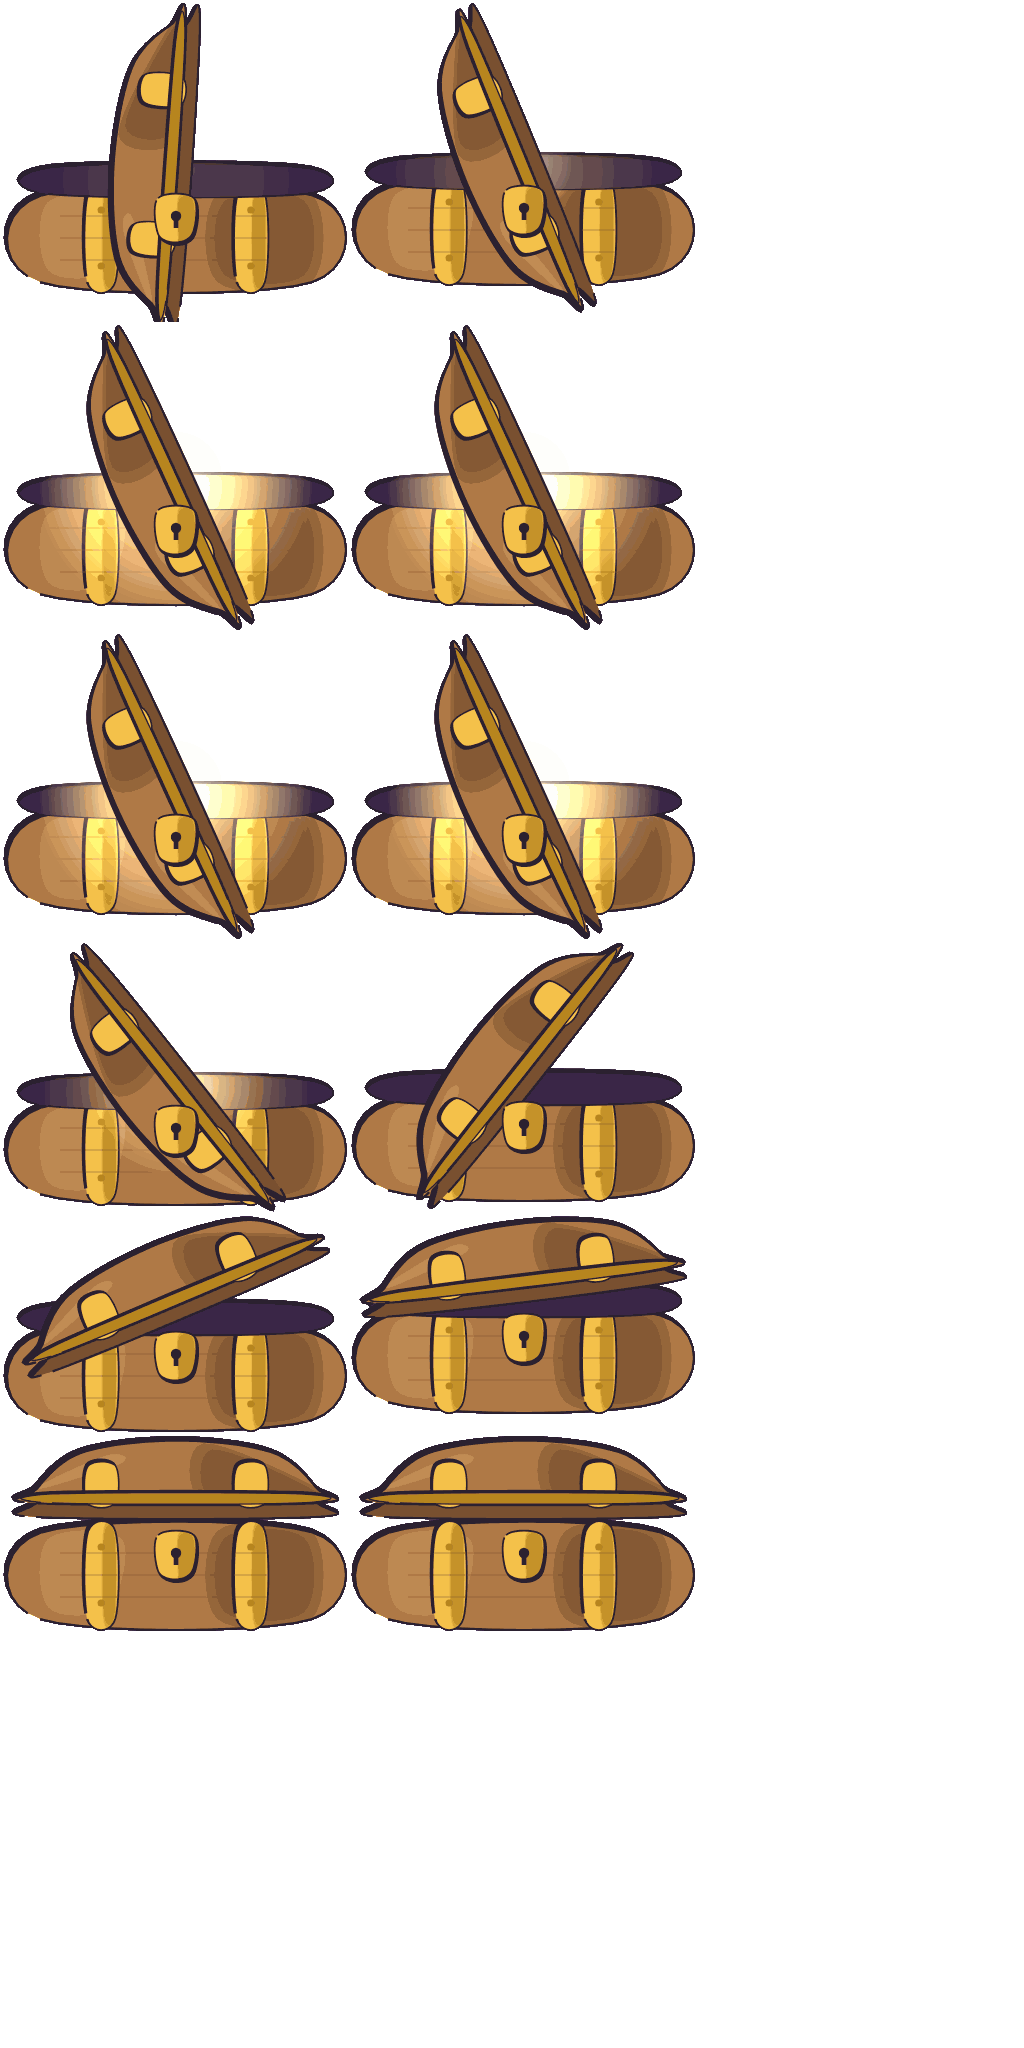
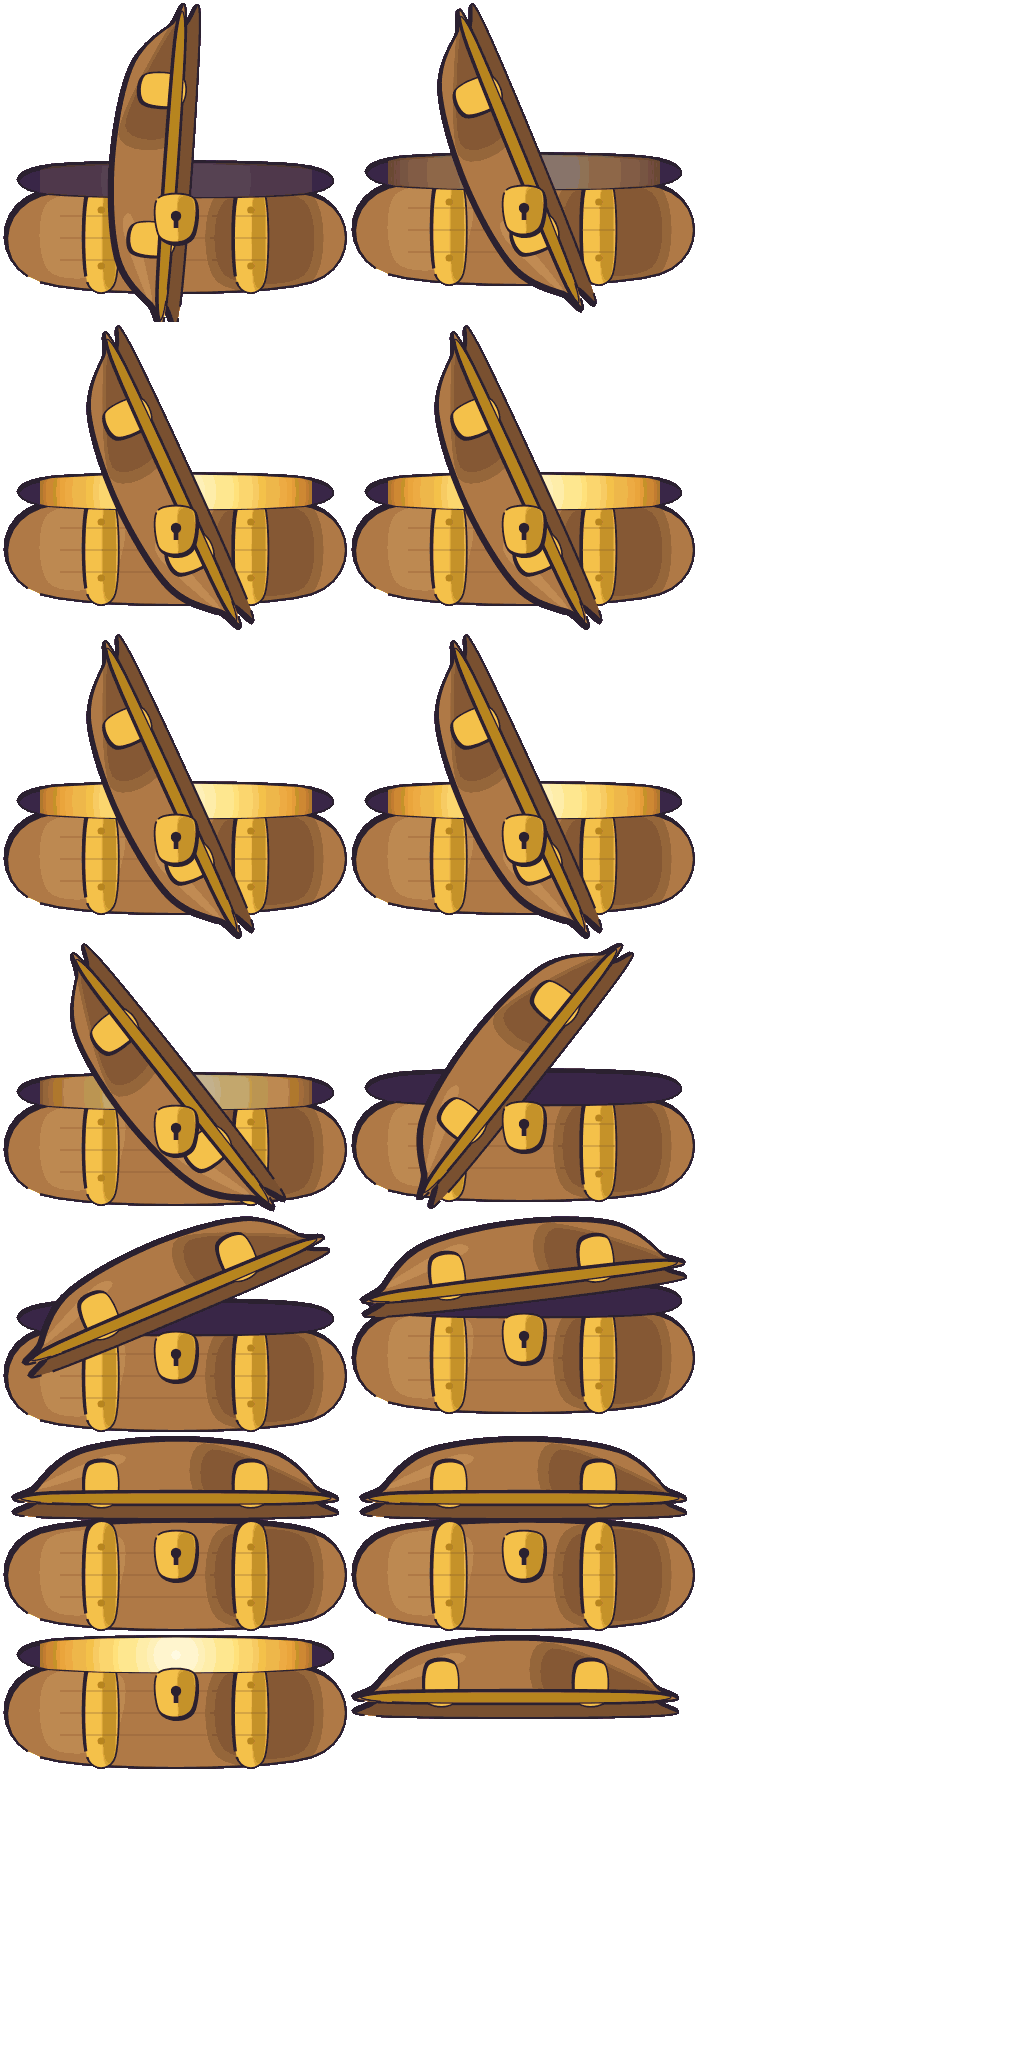
Mitch, AD's church and the chest's real body and lid; cloud past the map's edge and over every closed area
The church stands by its hub with its rose-rimmed plate. The pop now uses chest/body with its light showing and chest/lid
spinning about its own centre, in place of the frame cut in two. Dragging the map showed a void past the areas and grey
spots through the closed ones: the kit's cloud now lies under the whole board and over every closed area, kit or not.

diff --git a/Game Developer/client/src/scenes/RevealScene.ts b/Game Developer/client/src/scenes/RevealScene.ts
@@ -24,8 +24,8 @@ const CENTRE = DESIGN_WIDTH / 2;
 export const REVEAL_LAYOUT = { titleY: 150, cardY: 330, chestY: 600, mouthY: 530, hintY: 696 } as const;
 /** The glow builds this long before the lid moves; a tap cuts it short. */
 const BUILD_MS = 1500;
-/** Where the closed chest's frame divides into lid and body, in file pixels from its top. */
-const LID_CUT = 92;
+/** Where the lid's centre starts against the chest's pivot, in design pixels (Mitch, AD). */
+const LID_FROM = { x: -0.5, y: -70.5 } as const;
 /** The card rests this long before the next card or the board, unless tapped. */
 const REST_MS = 2200;
 const QUICK_REST_MS = 1500;
@@ -111,8 +111,8 @@ export class RevealScene extends Phaser.Scene {
 
     this.glow = this.add.image(CENTRE, mouthY, LOOT_KEYS.glow).setTint(this.tint).setBlendMode(Phaser.BlendModes.ADD).setAlpha(0).setScale(LOOT_SCALE * 0.3).setDepth(1);
     this.chest = this.add.sprite(CENTRE, chestY, LOOT_KEYS.chest, 'chest/closed/0001').setScale(LOOT_SCALE).setDepth(3);
-    // The lid: the same frame's top part, hidden until it blows off.
-    this.lid = this.add.sprite(CENTRE, chestY, LOOT_KEYS.chest, 'chest/closed/0001').setScale(LOOT_SCALE).setDepth(4).setVisible(false);
+    // The lid, hidden until it blows off; it spins about its own centre.
+    this.lid = this.add.sprite(CENTRE + LID_FROM.x, chestY + LID_FROM.y, LOOT_KEYS.chest, 'chest/lid').setScale(LOOT_SCALE).setDepth(4).setVisible(false);
     this.shaker = null;
     this.hint = this.add.text(CENTRE, hintY, 'Tap to go on', { fontFamily: FONT, fontSize: '13px', color: COLORS.dim }).setOrigin(0.5).setAlpha(0).setDepth(5);
 
@@ -168,17 +168,16 @@ export class RevealScene extends Phaser.Scene {
     this.shaker = null;
     const { chestY } = REVEAL_LAYOUT;
     this.chest.setAngle(0).setPosition(CENTRE, chestY).clearTint();
-    // The pop: the frame divides at the lid's seam; the body stays, the lid flies.
-    const { width, height } = this.chest.frame;
-    this.chest.setCrop(0, LID_CUT, width, height - LID_CUT);
-    this.lid.setCrop(0, 0, width, LID_CUT).setVisible(!this.quick);
+    // The pop: the body stays with its light showing, the lid flies.
+    this.chest.setFrame('chest/body');
+    this.lid.setVisible(!this.quick);
     this.burst();
     if (this.quick) return;
     this.chest.setScale(LOOT_SCALE * 1.22, LOOT_SCALE * 0.82);
     this.tweens.add({ targets: this.chest, scaleX: LOOT_SCALE, scaleY: LOOT_SCALE, duration: 300, ease: 'Back.easeOut' });
     const flash = this.add.circle(CENTRE, REVEAL_LAYOUT.mouthY, 40, 0xffffff, 0.9).setDepth(5).setBlendMode(Phaser.BlendModes.ADD);
     this.tweens.add({ targets: flash, scale: 5, alpha: 0, duration: 260, ease: 'Quad.easeOut', onComplete: () => flash.destroy() });
-    this.tweens.add({ targets: this.lid, y: chestY - 520, angle: 280, duration: 620, ease: 'Quad.easeOut' });
+    this.tweens.add({ targets: this.lid, y: chestY - 520, angle: 540, duration: 680, ease: 'Quad.easeOut' });
     this.tweens.add({ targets: this.lid, alpha: 0, delay: 360, duration: 260, onComplete: () => this.lid.setVisible(false) });
   }
 

diff --git a/Game Developer/client/src/scenes/BoardScene.ts b/Game Developer/client/src/scenes/BoardScene.ts
@@ -141,6 +141,7 @@ export class BoardScene extends Phaser.Scene {
    * under the button (mine, 2026-10-31), not even when the closing frame runs long drawing a grown area. */
   private overlayClosedAt = -Infinity;
   private overlayClosedFrame = -Infinity;
+  private outside: Phaser.GameObjects.TileSprite | null = null;
   private links!: Phaser.GameObjects.Graphics;
   private border!: Phaser.GameObjects.Graphics;
   private token!: Phaser.GameObjects.Container;
@@ -613,6 +614,11 @@ export class BoardScene extends Phaser.Scene {
       if (kit) this.log.note(`props: ${drawKitProps(this, kit, area)} on ${area.name}`);
     }
     for (const area of fresh) this.drawCover(area);
+    // Past the areas' edges there is cloud, not a void (the map can be dragged there).
+    if (this.textures.exists('board_cover')) {
+      this.outside ??= this.add.tileSprite(0, 0, board.width, board.height, 'board_cover').setOrigin(0, 0).setTileScale(0.5).setDepth(-1).setTint(0x8a8fa8);
+      this.outside.setSize(board.width, board.height);
+    }
     this.border.clear();
     this.border.lineStyle(6, COLORS.border, 1);
     this.border.strokeRect(3, 3, board.width - 6, board.height - 6);
@@ -758,7 +764,8 @@ export class BoardScene extends Phaser.Scene {
 
   /** A dark cover over an area, shown while it is not yet open: you can see there is more, not what. */
   private drawCover(area: Area): void {
-    const kit = kitFor(this, area.theme);
+    // The meadow's cloud over any closed area, kit or not: nothing shows until it opens.
+    const kit = kitFor(this, area.theme) ?? kitFor(this, 'meadow');
     if (kit) {
       this.covers.set(area.id, drawKitCover(this, kit, area));
       return;

diff --git a/Game Developer/client/src/boardkit.ts b/Game Developer/client/src/boardkit.ts
@@ -62,7 +62,7 @@ const KITS: Record<string, Kit> = {
   },
 };
 
-const PLATES: Record<SpaceKind, string> = { normal: 'spot_wild', town: 'spot_town', shop: 'spot_shop', chest: 'spot_chest', potion: 'spot_spring', spell: 'spot_shrine', church: 'spot_shrine', boss: 'spot_gate' };
+const PLATES: Record<SpaceKind, string> = { normal: 'spot_wild', town: 'spot_town', shop: 'spot_shop', chest: 'spot_chest', potion: 'spot_spring', spell: 'spot_shrine', church: 'spot_church', boss: 'spot_gate' };
 
 export function preloadBoardKits(scene: Phaser.Scene): void {
   const k = KITS.meadow!;

diff --git a/Game Developer/assets/board_meadows/NOTES.md b/Game Developer/assets/board_meadows/NOTES.md
@@ -4,7 +4,7 @@ Mitch, AD, 2026-11-01. Copy the whole folder. Sizes are design pixels (world pix
 them at 0.5. About 280 KB in all, against the area kit's 2.5 MB for board and fight together. Decoded: `board_props` 8 MB
 (1024 by 2048), `board_ground` 4 MB, `cover` 1 MB.
 
-`puddlewick.jpg`, `crossroads.jpg` and `whole.jpg` are this kit laid on your real graph by the studio's tool, from these same
+`puddlewick.jpg`, `crossroads.jpg`, `church.jpg` and `whole.jpg` are this kit laid on your real graph by the studio's tool, from these same
 atlases. They are not screenshots of the game.
 
 ## How to lay it
@@ -13,10 +13,11 @@ atlases. They are not screenshots of the game.
   colour at their edges, so they mix without showing squares. Tiles are 1 px extruded.
 - **Roads:** stroke the curve in code with three lines: 30 px `#b4935a`, 25 px `#d9bb7e`, 10 px `#ecd49c` at 0.8 alpha, round
   joins. Or repeat `road_straight` along the curve, turned to it, with `road_end` at each spot and `road_junction` at each hub.
-- **Spots:** `spot_<kind>`, the pivot at the centre, where the token stands: wild 56 wide, town and shop 90, chest, spring and
-  shrine 56, the gate 120. Clean plates with the kind in the rim's colour and nothing on them (Robin, 2026-11-01).
+- **Spots:** `spot_<kind>`, the pivot at the centre, where the token stands: wild 56 wide, town and shop 90, chest, spring,
+  shrine and church 56, the gate 120. Clean plates with the kind in the rim's colour and nothing on them (Robin, 2026-11-01).
 - **Props:** pivot at the foot, shadows baked in. Sort by the foot's y with the token in the same sort. Do not flip them: the
   shadow falls to the lower right on every piece. `clover`, `worn` and `hill` are flat: draw them before the roads.
+- **The church:** `church` stands by `ravine`, Little Clover Church, on a `spot_church` plate with a rose rim (Robin, 2026-11-01: "a church somewhere on each map"). Placement has it, with the long hedge and the stile gone from that hub.
 - **Placement:** `placement_cloverfield.json` lists every prop as `{ name, x, y, hub? }` in world pixels, ready to load. It keeps
   each piece's whole body clear of the roads and spots and inside the area's bounds as the game reports them (x 140 to 1240,
   stopping where Thornwood begins; y 2120 to 3592). The first version assumed the 1400 wide in `docs/art-demands.md` and put
@@ -74,6 +75,7 @@ The cliff and the rims were checked as repeats only.
 | `windmill` | Windmill Hill | 129 by 161 | 70, 149 |
 | `old_mill` | Old Mill | 105 by 64 | 40, 57 |
 | `pond` | Duck Pond | 164 by 106 | 83, 92 |
+| `church` | Little Clover Church, one on each map, beside its church hub | 138 by 169 | 55, 162 |
 | `spring` | Abandoned Orchard, a spring spot | 82 by 61 | 39, 45 |
 | `shrine` | Forest Shrine, a shrine spot | 44 by 55 | 26, 52 |
 | `chest` | Slime Cave, a chest spot (closed; the opening is the loot drop) | 39 by 33 | 19, 25 |
@@ -84,6 +86,7 @@ The cliff and the rims were checked as repeats only.
 | `spot_chest` | a chest spot (t) | 61 by 36 | the centre, where the token stands |
 | `spot_spring` | a spring spot (p) | 61 by 36 | the centre, where the token stands |
 | `spot_shrine` | a shrine spot (s) | 61 by 36 | the centre, where the token stands |
+| `spot_church` | a church hub, heals and clears poison | 61 by 36 | the centre, where the token stands |
 | `spot_gate` | the boss hub | 125 by 71 | the centre, where the token stands |
 
 ## The ground (`board_ground`, 1 px extruded)

diff --git a/Game Developer/docs/state/client.md b/Game Developer/docs/state/client.md
@@ -423,7 +423,7 @@ world boss in the atlas's list.
 - **The map drags again**: `inView` compared canvas pixels with design pixels after the density change, so only the top half of the screen dragged.
 - **The fight has room**: ground at y 490, the strip from y 640, the hero at x 66 with his bars at x 90, the enemy at x 318, King Goo at 0.9. A blow steps its figure toward the other (`step`). Buttons 188 by 54 in rows at y 744, 802, 860; Continue 260 by 70. A ? top right opens the guide.
 - **The drop stays hidden**: the fight says "It drops a chest!", and the name first shows on the reveal's card ("put on" when it went straight on).
-- **The chest** (`RevealScene`): 1.5 s of shine in the rarity colour and growing shake, then the pop: the closed frame divides at `LID_CUT` (the lid a second sprite that flies off spinning, the body squashing back), a white flash, the burst, the card. A tap during the shine pops it at once.
+- **The chest** (`RevealScene`): 1.5 s of shine in the rarity colour and growing shake, then the pop: Mitch, AD's `chest/body` with its light showing, squashing back, and `chest/lid` flying off spinning about its own centre, a white flash, the burst, the card. A tap during the shine pops it at once.
 - **Finds** (`MomentScene.find`, `BoardScene.showFinds`): what a spot gave pops as its icon over rays with a card of words: rest, cure, gold, flask, HP, ability, key, errand, locked, empty, a wild spot's event.
 - **The guide** (`GuideScene`, from World and the fight's ?): Fights, Guards, Abilities, Effects, Map, with numbers read from the data. Choosing an ability also puts its words in the message box while Back is still there.
 - **The bag**: flasks are tappable (Drink, dim when it would do nothing; a dice card says when it works); carried pieces four to a page with Next. **The shop**: Gear, Items, Sell and in a town Train as tabs, rows 48 high, Buy 88 by 42. **The HUD**: Map, World, Bag, Log 96 by 48, Roll 340 by 58. The place line names what you carry ("poisoned").

diff --git a/Game Developer/docs/plan-chapter-1.md b/Game Developer/docs/plan-chapter-1.md
@@ -96,7 +96,7 @@ step 9 when the parts land, 10 and 11 near the end, 12 last.
 
 ## Robin's first play (2026-11-01)
 
-His notes are done: `docs/state/client.md` and `docs/state/rules.md`, each under "Robin's first play notes". To come from the studios: the church's plate and building, a lid-less chest body with its lid as a piece, a church sound.
+His notes are done: `docs/state/client.md` and `docs/state/rules.md`, each under "Robin's first play notes". The church's plate and building and the chest's body and lid landed the same night. To come from the studios: the church's bell and the poison's sting (Nigel, SD, waiting on the PC's audio output).
 
 ## What Robin does meanwhile
 
